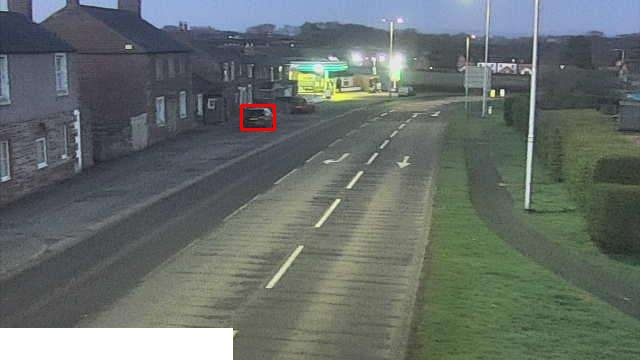
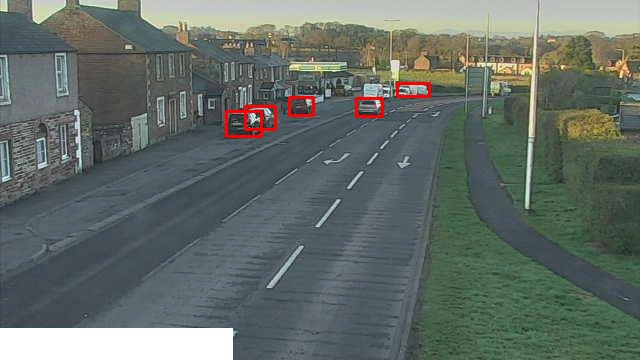
implement prediction

diff --git a/data_collector.py b/data_collector.py
@@ -13,7 +13,11 @@ SENSOR_URL = "http://smartcam.uo.ncl.ac.uk:8001/sensor"
 CAMERA_URL = "http://smartcam.uo.ncl.ac.uk:8001/camera"
 POLL_INTERVAL_SECONDS = 5
 
+# ADDED: Track unique timestamps to filter out duplicates at the edge
+seen_timestamps = set()
+
 def fetch_and_process_sensor_data():
+    global seen_timestamps
     try:
         response = requests.get(SENSOR_URL, timeout=10)
         response.raise_for_status()
@@ -25,15 +29,19 @@ def fetch_and_process_sensor_data():
             if reading.get("Variable") == "PM2.5":
                 timestamp = reading.get("Timestamp")
                 value = reading.get("Value")
-            
+                
                 if timestamp is not None and value is not None:
-                    pm25_data.append({
-                        "Timestamp": timestamp,
-                        "Value": value
-                    })
+                    # ADDED: Only process and send completely new readings
+                    if timestamp not in seen_timestamps:
+                        seen_timestamps.add(timestamp)
+                        
+                        pm25_data.append({
+                            "Timestamp": timestamp,
+                            "Value": value
+                        })
 
-                    if float(value) > 50:
-                        print(f"[OUTLIER DETECTED] PM2.5 Value: {value} at {timestamp}")
+                        if float(value) > 50:
+                            print(f"[OUTLIER DETECTED] PM2.5 Value: {value} at {timestamp}")
         
         return pm25_data
     
@@ -43,7 +51,6 @@ def fetch_and_process_sensor_data():
 
 def fetch_camera_frame():
     try:
-        # FIXED: Changed SENSOR_URL to CAMERA_URL
         response = requests.get(CAMERA_URL, timeout=10)
         response.raise_for_status()
 
@@ -58,20 +65,20 @@ def fetch_camera_frame():
 def main():
     print(f"Starting Data Collector Component. Connecting to broker: {BROKER}")
 
-    client = mqtt.Client()
+    # FIXED: Added VERSION1 to suppress the Paho MQTT deprecation warning
+    client = mqtt.Client(mqtt.CallbackAPIVersion.VERSION1)
     client.connect(BROKER, 1883, 120)
     client.loop_start()
 
     while True:
         sensor_data = fetch_and_process_sensor_data()
         if sensor_data:
-            print(f"Processed {len(sensor_data)} valid PM2.5 readings.")
+            print(f"Processed {len(sensor_data)} NEW PM2.5 readings.")
             for reading in sensor_data:
                 client.publish("sensor/pm25", json.dumps(reading), qos=1)
 
         camera_frame = fetch_camera_frame()
 
-        # FIXED: Added defensive check to prevent publishing None
         if camera_frame:
             client.publish(TOPIC, camera_frame, qos=1)
 

diff --git a/pm25_prediction.py b/pm25_prediction.py
@@ -10,7 +10,7 @@ from ml_engine import MLPredictor
 
 BROKER = os.environ.get("MQTT_BROKER", "localhost")
 TOPIC = "sensor/pm25"
-TARGET_POINTS = 1000
+TARGET_POINTS = 8706
 OUTPUT_DIR = "/app/output"
 
 pm25_dataset = []
@@ -50,26 +50,23 @@ def process_and_predict():
     print(df[['Formatted_Timestamp', 'Value']].tail())
     
     df.set_index('Timestamp', inplace=True)
-    
-    # Average the PM2.5 data over 10-minute periods
+
     df_10min = df.resample('10min').mean(numeric_only=True)
-    
-    # Average daily data and visualize
-    df_daily = df.resample('D').mean(numeric_only=True)
     
     os.makedirs(OUTPUT_DIR, exist_ok=True)
     
-    plt.figure(figsize=(10, 5))
-    plt.plot(df_daily.index, df_daily['Value'], marker='o', linestyle='-', color='b')
-    plt.title('Daily Averaged PM2.5 Data')
-    plt.xlabel('Date')
+    # Plot the 10-minute data instead of the daily data
+    plt.figure(figsize=(12, 5))
+    plt.plot(df_10min.index, df_10min['Value'], marker='.', linestyle='-', color='b')
+    plt.title('10-Minute Averaged PM2.5 Data')
+    plt.xlabel('Time')
     plt.ylabel('PM2.5 Value')
     plt.grid(True)
     plt.tight_layout()
     
-    daily_plot_path = os.path.join(OUTPUT_DIR, 'daily_pm25_trend.png')
-    plt.savefig(daily_plot_path)
-    print(f"Daily trend chart saved to {daily_plot_path}")
+    trend_plot_path = os.path.join(OUTPUT_DIR, '10min_pm25_trend.png')
+    plt.savefig(trend_plot_path)
+    print(f"10-minute trend chart saved to {trend_plot_path}")
     
     print("\n--- Initializing Machine Learning Engine ---")
     try:
